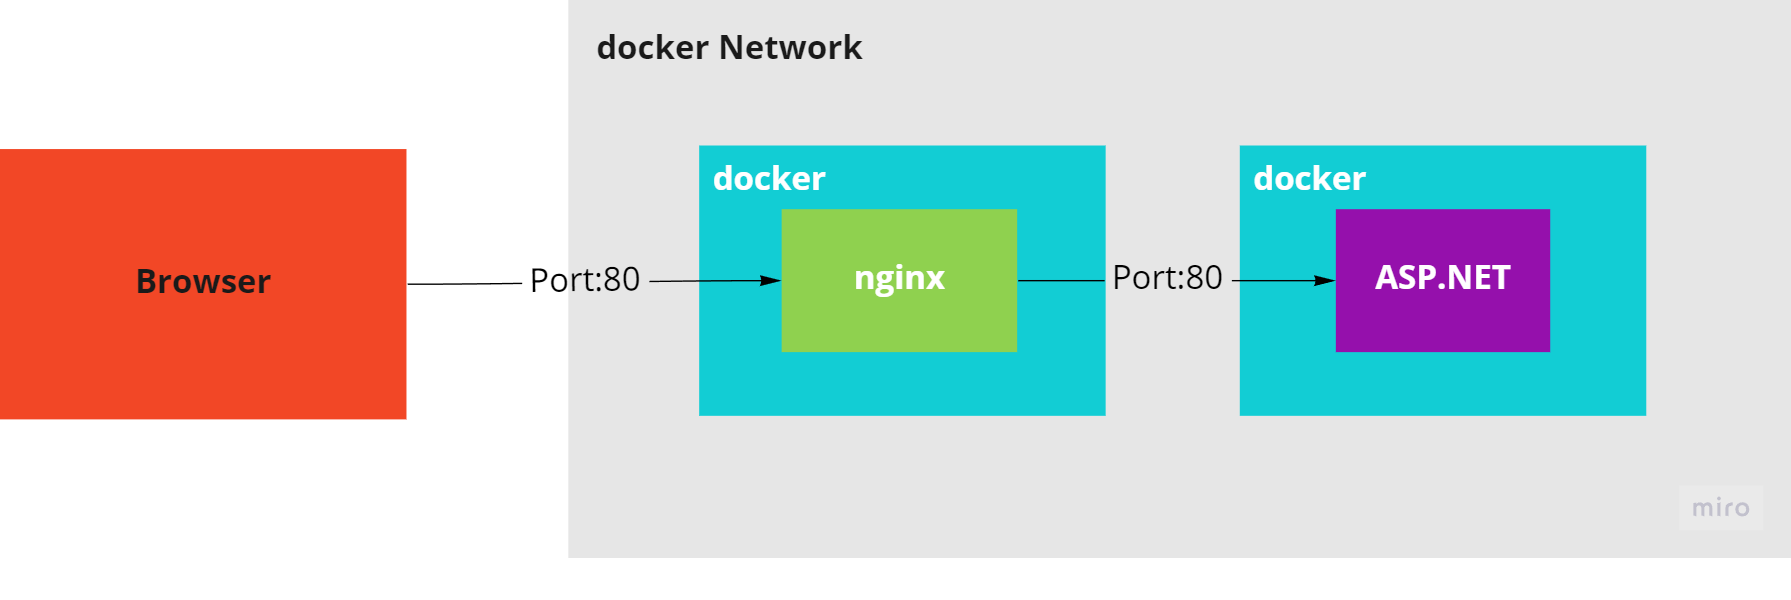
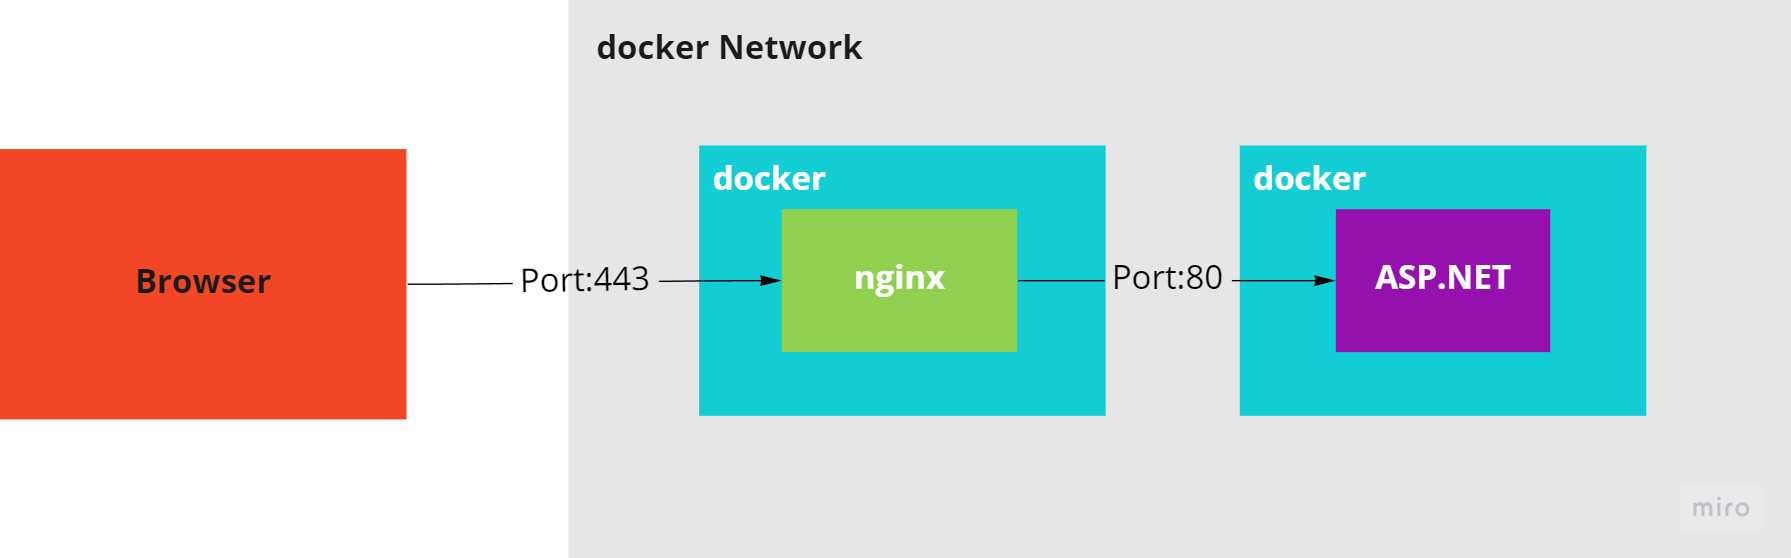
fix

diff --git a/ASP.NET/09_docker-sample-with-nginx_ssl/README.md b/ASP.NET/09_docker-sample-with-nginx_ssl/README.md
@@ -80,4 +80,7 @@ $ docker logs -f docker-sample-nginx
 ````
 
 Of course, certification is invalid because it is self-signed certificate.
-You can 
+So You can import `ca.crt` generated by Generate.ps1 into `Trusted Root Certification Authorities` and this warning goes away.
+After import `ca.crt`, you should reboot browser.
+
+<img src="./images/image2.png" />
